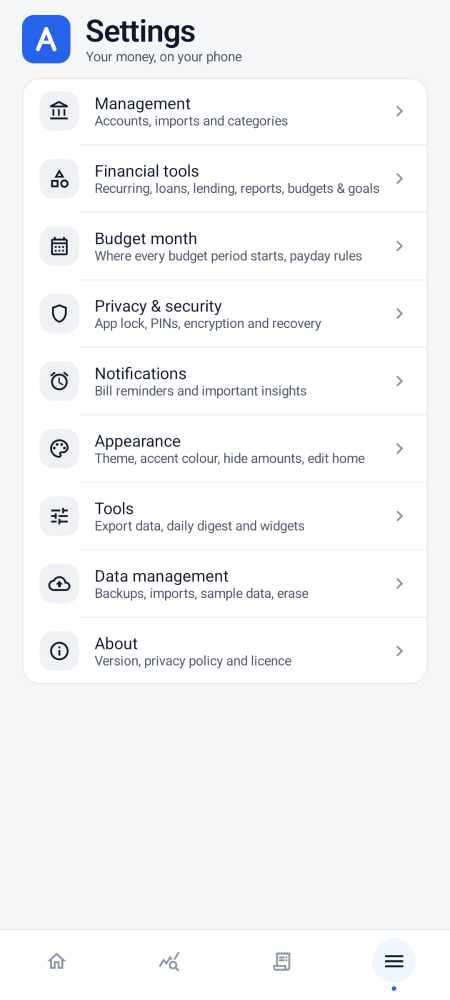
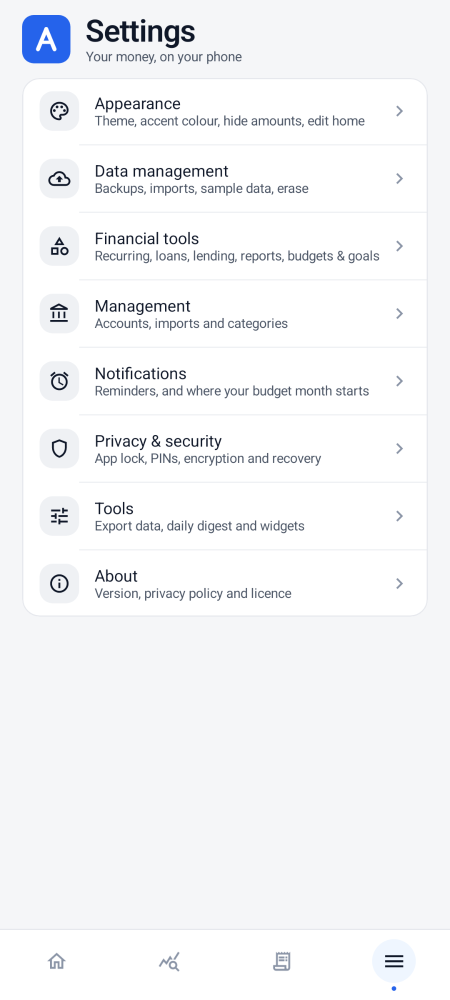
v1.9.1: Settings navigation cleanup — subpages drop their in-card category subtitles (SettingsSection title now nullable; page title + description speak for themselves), Budget month page removed and its rows (Month starts on picker + PaydaySettings) moved verbatim into the Notifications page whose 

diff --git a/app/src/main/java/com/acuranza/app/ui/settings/SettingsPages.kt b/app/src/main/java/com/acuranza/app/ui/settings/SettingsPages.kt
@@ -110,7 +110,7 @@ private fun SettingsPage(
 @Composable
 fun ManagementSettingsPage(nav: NavController) {
     SettingsPage("Management", "Accounts, imports and categories", nav) {
-        SettingsSection("Account & management") {
+        SettingsSection(null) {
             SettingsRow("Accounts & cards", "Balances, limits and reconciliation", Icons.Outlined.AccountBalance) { nav.navigate(Routes.ACCOUNTS) }
             SettingsRow("Review imports", "Confirm imported transactions", Icons.Outlined.Inbox) { nav.navigate(Routes.REVIEW) }
             SettingsRow("Categories", "Add, rename, restyle and delete your categories", Icons.Outlined.Category, divider = false) { nav.navigate(Routes.CATEGORIES) }
@@ -121,32 +121,12 @@ fun ManagementSettingsPage(nav: NavController) {
 @Composable
 fun FinancialToolsPage(nav: NavController) {
     SettingsPage("Financial tools", "Everything beyond everyday tracking", nav) {
-        SettingsSection("Tools") {
+        SettingsSection(null) {
             SettingsRow("Recurring payments", "Upcoming payments, AutoPay mandates, price changes", Icons.Outlined.Autorenew) { nav.navigate(Routes.RECURRING) }
             SettingsRow("Loans & EMIs", "What's left, prepayment savings, tax split", Icons.Outlined.RealEstateAgent) { nav.navigate(Routes.LOANS) }
             SettingsRow("Lending", "Money between you and friends or family", Icons.Outlined.Handshake) { nav.navigate(Routes.DEBTS) }
             SettingsRow("Reports", "Monthly and yearly PDF, year in review, calendar", Icons.Outlined.Assessment) { nav.navigate(Routes.REPORTS) }
             SettingsRow("Budgets & goals", "Budgets, savings goals and your salary plan", Icons.Outlined.TrackChanges, divider = false) { nav.navigate(Routes.PLANNING) }
-        }
-    }
-}
-
-@Composable
-fun BudgetMonthPage(nav: NavController) {
-    val c = LocalContainer.current
-    val s = LocalSettings.current
-    val scope = rememberCoroutineScope()
-    SettingsPage("Budget month", "Where every budget period starts", nav) {
-        SettingsSection("Budget month") {
-            SettingsPickerRow(
-                "Month starts on",
-                (1..28).toList(),
-                s.monthStartDay,
-                { if (it == 1) "1st (calendar month)" else ordinal(it) + " (e.g. salary day)" },
-                Icons.Outlined.CalendarMonth,
-                divider = s.monthStartDay > 1,
-            ) { d -> scope.launch { c.settings.setMonthStartDay(d) } }
-            PaydaySettings(s)
         }
     }
 }
@@ -173,8 +153,8 @@ fun NotificationsPage(nav: NavController) {
             notifPermission.launch(Manifest.permission.POST_NOTIFICATIONS)
         }
     }
-    SettingsPage("Notifications", "What Acuranza reminds you about", nav) {
-        SettingsSection("Reminders") {
+    SettingsPage("Notifications", "Reminders, and where your budget month starts", nav) {
+        SettingsSection(null) {
             SettingsToggle("Bill reminders", "3 days and 1 day before the due date", s.notifyBills, { v ->
                 if (v) ensurePermission()
                 scope.launch { c.settings.setNotifyBills(v) }
@@ -182,7 +162,15 @@ fun NotificationsPage(nav: NavController) {
             SettingsToggle("Important insights", "Overspending and unusual spends", s.notifyInsights, { v ->
                 if (v) ensurePermission()
                 scope.launch { c.settings.setNotifyInsights(v) }
-            }, Icons.Outlined.Bolt, divider = false)
+            }, Icons.Outlined.Bolt)
+            SettingsPickerRow(
+                "Month starts on",
+                (1..28).toList(),
+                s.monthStartDay,
+                { if (it == 1) "1st (calendar month)" else ordinal(it) + " (e.g. salary day)" },
+                Icons.Outlined.CalendarMonth,
+            ) { d -> scope.launch { c.settings.setMonthStartDay(d) } }
+            PaydaySettings(s)
         }
     }
 }
@@ -193,7 +181,7 @@ fun AppearancePage(nav: NavController) {
     val s = LocalSettings.current
     val scope = rememberCoroutineScope()
     SettingsPage("Appearance", "Theme, accent colour and your dashboard", nav) {
-        SettingsSection("Appearance") {
+        SettingsSection(null) {
             SettingsPickerRow(
                 "Theme",
                 ThemeMode.entries,
@@ -264,7 +252,7 @@ fun DataManagementPage(nav: NavController) {
                 }
             }
         }
-        SettingsSection("Backups") {
+        SettingsSection(null) {
             SettingsRow("Back up", "Encrypted file protected by a password", Icons.Outlined.Backup, enabled = busy == null) {
                 if (!createBackup.launchOrFalse("acuranza-backup-${LocalDate.now()}.acuranza")) show(NO_FILE_PICKER)
             }
@@ -272,19 +260,15 @@ fun DataManagementPage(nav: NavController) {
             SettingsRow("Restore from backup", "Replaces everything on this phone", Icons.Outlined.Restore, enabled = busy == null) {
                 if (!openBackup.launchOrFalse(arrayOf("*/*"))) show(NO_FILE_PICKER)
             }
-        }
-        SettingsSection("Import") {
-            SettingsRow("Import statements", "CSV from net banking to bring in past transactions", Icons.Outlined.UploadFile, divider = false) {
+            SettingsRow("Import statements", "CSV from net banking to bring in past transactions", Icons.Outlined.UploadFile) {
                 nav.navigate(Routes.STATEMENT_IMPORT)
             }
-        }
-        SettingsSection("Sample data") {
             if (sampleLoaded) {
-                SettingsRow("Remove sample data", "Deletes only the demo accounts, transactions and investments", Icons.Outlined.Science, enabled = busy == null, divider = false) {
+                SettingsRow("Remove sample data", "Deletes only the demo accounts, transactions and investments", Icons.Outlined.Science, enabled = busy == null) {
                     confirmRemoveSample = true
                 }
             } else {
-                SettingsRow("Load sample data", "Explore Acuranza with demo accounts and transactions", Icons.Outlined.Science, enabled = busy == null, divider = false) {
+                SettingsRow("Load sample data", "Explore Acuranza with demo accounts and transactions", Icons.Outlined.Science, enabled = busy == null) {
                     busy = "Loading sample data…"
                     scope.launch {
                         val loaded = runCatching { c.demoData.load() }.getOrDefault(false)
@@ -295,8 +279,6 @@ fun DataManagementPage(nav: NavController) {
                     }
                 }
             }
-        }
-        SettingsSection("Danger zone") {
             SettingsRow(
                 "Erase all data",
                 "Deletes accounts, transactions and bills",

diff --git a/app/src/main/java/com/acuranza/app/ui/settings/MoreScreen.kt b/app/src/main/java/com/acuranza/app/ui/settings/MoreScreen.kt
@@ -50,14 +50,13 @@ private data class SettingsCategory(
 )
 
 private val SettingsCategories = listOf(
-    SettingsCategory("Management", "Accounts, imports and categories", Icons.Outlined.AccountBalance, Routes.SETTINGS_MANAGEMENT),
-    SettingsCategory("Financial tools", "Recurring, loans, lending, reports, budgets & goals", Icons.AutoMirrored.Outlined.TrendingUp, Routes.SETTINGS_FINANCIAL),
-    SettingsCategory("Budget month", "Where every budget period starts, payday rules", Icons.Outlined.CalendarMonth, Routes.SETTINGS_BUDGET),
-    SettingsCategory("Privacy & security", "App lock, PINs, encryption and recovery", Icons.Outlined.Shield, Routes.SETTINGS_PRIVACY),
-    SettingsCategory("Notifications", "Bill reminders and important insights", Icons.Outlined.Alarm, Routes.SETTINGS_NOTIFICATIONS),
     SettingsCategory("Appearance", "Theme, accent colour, hide amounts, edit home", Icons.Outlined.Palette, Routes.SETTINGS_APPEARANCE),
-    SettingsCategory("Tools", "Export data, daily digest and widgets", Icons.Outlined.Tune, Routes.SETTINGS_TOOLS),
     SettingsCategory("Data management", "Backups, imports, sample data, erase", Icons.Outlined.Backup, Routes.SETTINGS_DATA),
+    SettingsCategory("Financial tools", "Recurring, loans, lending, reports, budgets & goals", Icons.AutoMirrored.Outlined.TrendingUp, Routes.SETTINGS_FINANCIAL),
+    SettingsCategory("Management", "Accounts, imports and categories", Icons.Outlined.AccountBalance, Routes.SETTINGS_MANAGEMENT),
+    SettingsCategory("Notifications", "Reminders, and where your budget month starts", Icons.Outlined.Alarm, Routes.SETTINGS_NOTIFICATIONS),
+    SettingsCategory("Privacy & security", "App lock, PINs, encryption and recovery", Icons.Outlined.Shield, Routes.SETTINGS_PRIVACY),
+    SettingsCategory("Tools", "Export data, daily digest and widgets", Icons.Outlined.Tune, Routes.SETTINGS_TOOLS),
     SettingsCategory("About", "Version, privacy policy and licence", Icons.Outlined.Info, Routes.ABOUT),
 )
 

diff --git a/app/src/test/java/com/acuranza/app/screenshots/ScreensScreenshotTest.kt b/app/src/test/java/com/acuranza/app/screenshots/ScreensScreenshotTest.kt
@@ -242,14 +242,13 @@ class ScreensScreenshotTest {
                 }
             }
             AcuranzaCard(contentPadding = androidx.compose.foundation.layout.PaddingValues(0.dp)) {
-                SettingsRow("Management", "Accounts, imports and categories", Icons.Outlined.AccountBalance) {}
-                SettingsRow("Financial tools", "Recurring, loans, lending, reports, budgets & goals", Icons.Outlined.Category) {}
-                SettingsRow("Budget month", "Where every budget period starts, payday rules", Icons.Outlined.CalendarMonth) {}
-                SettingsRow("Privacy & security", "App lock, PINs, encryption and recovery", Icons.Outlined.Shield) {}
-                SettingsRow("Notifications", "Bill reminders and important insights", Icons.Outlined.Alarm) {}
                 SettingsRow("Appearance", "Theme, accent colour, hide amounts, edit home", Icons.Outlined.Palette) {}
-                SettingsRow("Tools", "Export data, daily digest and widgets", Icons.Outlined.Tune) {}
                 SettingsRow("Data management", "Backups, imports, sample data, erase", Icons.Outlined.Backup) {}
+                SettingsRow("Financial tools", "Recurring, loans, lending, reports, budgets & goals", Icons.Outlined.Category) {}
+                SettingsRow("Management", "Accounts, imports and categories", Icons.Outlined.AccountBalance) {}
+                SettingsRow("Notifications", "Reminders, and where your budget month starts", Icons.Outlined.Alarm) {}
+                SettingsRow("Privacy & security", "App lock, PINs, encryption and recovery", Icons.Outlined.Shield) {}
+                SettingsRow("Tools", "Export data, daily digest and widgets", Icons.Outlined.Tune) {}
                 SettingsRow("About", "Version, privacy policy and licence", Icons.Outlined.Info, divider = false) {}
             }
             Spacer(Modifier.height(24.dp))

diff --git a/app/src/main/java/com/acuranza/app/ui/settings/SettingsUi.kt b/app/src/main/java/com/acuranza/app/ui/settings/SettingsUi.kt
@@ -77,10 +77,13 @@ fun SettingsDivider(startInset: Dp = 52.dp) {
 
 /** A titled group of settings rows on a card; rows bring their own padding and dividers. */
 @Composable
-fun SettingsSection(title: String, content: @Composable ColumnScope.() -> Unit) {
+fun SettingsSection(title: String?, content: @Composable ColumnScope.() -> Unit) {
     Column(Modifier.fillMaxWidth().padding(top = 24.dp)) {
-        Text(title.uppercase(), style = AcuranzaText.sectionLabel, color = AcuranzaTheme.colors.subtleText)
-        Spacer(Modifier.height(8.dp))
+        // On subpages the page title already names the group, so the in-card label is dropped.
+        if (title != null) {
+            Text(title.uppercase(), style = AcuranzaText.sectionLabel, color = AcuranzaTheme.colors.subtleText)
+            Spacer(Modifier.height(8.dp))
+        }
         AcuranzaCard(contentPadding = PaddingValues(0.dp)) {
             content()
         }

diff --git a/app/src/main/java/com/acuranza/app/ui/AcuranzaRoot.kt b/app/src/main/java/com/acuranza/app/ui/AcuranzaRoot.kt
@@ -556,7 +556,6 @@ private fun AcuranzaNavHost(nav: NavHostController) {
         composable(Routes.EDIT_HOME) { com.acuranza.app.ui.home.EditHomeScreen(nav) }
         composable(Routes.SETTINGS_MANAGEMENT) { com.acuranza.app.ui.settings.ManagementSettingsPage(nav) }
         composable(Routes.SETTINGS_FINANCIAL) { com.acuranza.app.ui.settings.FinancialToolsPage(nav) }
-        composable(Routes.SETTINGS_BUDGET) { com.acuranza.app.ui.settings.BudgetMonthPage(nav) }
         composable(Routes.SETTINGS_PRIVACY) { com.acuranza.app.ui.settings.PrivacySecurityPage(nav) }
         composable(Routes.SETTINGS_NOTIFICATIONS) { com.acuranza.app.ui.settings.NotificationsPage(nav) }
         composable(Routes.SETTINGS_APPEARANCE) { com.acuranza.app.ui.settings.AppearancePage(nav) }

diff --git a/app/src/main/java/com/acuranza/app/ui/nav/Routes.kt b/app/src/main/java/com/acuranza/app/ui/nav/Routes.kt
@@ -33,7 +33,6 @@ object Routes {
     const val EDIT_HOME = "home/edit"
     const val SETTINGS_MANAGEMENT = "settings/management"
     const val SETTINGS_FINANCIAL = "settings/financial-tools"
-    const val SETTINGS_BUDGET = "settings/budget-month"
     const val SETTINGS_PRIVACY = "settings/privacy"
     const val SETTINGS_NOTIFICATIONS = "settings/notifications"
     const val SETTINGS_APPEARANCE = "settings/appearance"

diff --git a/app/src/main/java/com/acuranza/app/ui/settings/SecuritySection.kt b/app/src/main/java/com/acuranza/app/ui/settings/SecuritySection.kt
@@ -71,7 +71,7 @@ fun PrivacySecuritySection(onMessage: (String) -> Unit) {
     var pinDialog by remember { mutableStateOf<PinAction?>(null) }
     var recoveryOpen by remember { mutableStateOf(false) }
 
-    SettingsSection("Privacy & security") {
+    SettingsSection(null) {
         val canLock = remember { BiometricGate.isAvailable(context) }
         SettingsToggle(
             "App lock",

diff --git a/app/src/main/java/com/acuranza/app/ui/tools/ToolsSection.kt b/app/src/main/java/com/acuranza/app/ui/tools/ToolsSection.kt
@@ -118,7 +118,7 @@ fun ToolsSection(onMessage: (String) -> Unit) {
         }
     }
 
-    SettingsSection("Tools") {
+    SettingsSection(null) {
         SettingsRow("Export data", "CSV, Excel, Beancount or Ledger", Icons.Outlined.FileDownload) { exportOpen = true }
         SettingsToggle(
             "Daily digest",
